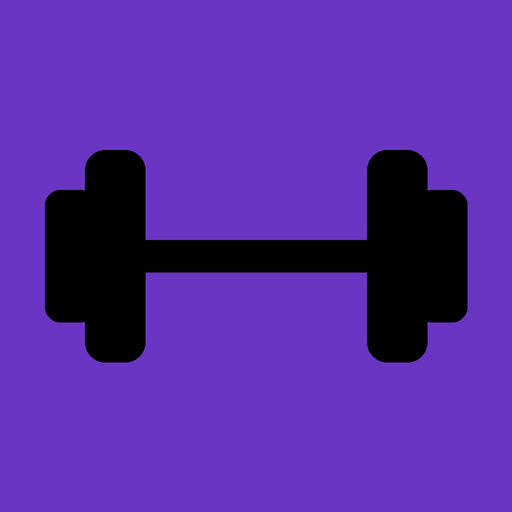
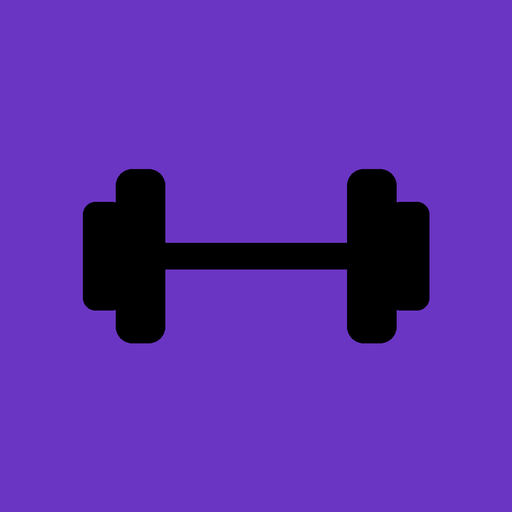
Add files via upload

Changed region(s): [[0.0625, 0.2812, 0.9375, 0.7188]]

diff --git a/index.html b/index.html
@@ -21,7 +21,7 @@ input:focus,select:focus,button:focus-visible{outline:2px solid var(--acc2);outl
 button{cursor:pointer}.pri{background:var(--acc);border-color:var(--acc);color:#fff;font-weight:600}
 .num{width:76px;text-align:center}
 .set{display:inline-block;background:var(--bg);border-radius:8px;padding:4px 9px;margin:6px 6px 0 0;font-weight:600}
-.set a{color:var(--mute);margin-left:4px;cursor:pointer}
+.set a{color:var(--mute);margin-left:8px;cursor:pointer;display:inline-flex;align-items:center;justify-content:center;min-width:28px;min-height:28px;border-radius:6px}.set a:focus-visible{outline:2px solid var(--acc2)}
 .chip{display:inline-flex;align-items:center;gap:6px;border:1px solid var(--line);border-radius:20px;padding:4px 10px;margin:6px 6px 0 0;font-size:14px}
 .chip a{color:var(--mute);cursor:pointer}
 .ico{flex:none;fill:none;stroke:var(--acc2);stroke-width:3;stroke-linecap:round;stroke-linejoin:round}.ico .e{stroke:var(--mute)}
@@ -41,8 +41,17 @@ const DAYS=["Lunes","Martes","Miércoles","Jueves","Viernes","Sábado","Domingo"
 const def=()=>({machines:["Press de banca","Press inclinado","Jalón al pecho","Remo en polea","Prensa de piernas","Extensión de cuádriceps","Curl femoral","Press militar","Curl de bíceps","Cinta de correr"],
 routine:[["Press de banca","Press inclinado"],["Jalón al pecho","Remo en polea"],[],["Prensa de piernas","Extensión de cuádriceps","Curl femoral"],["Press militar","Curl de bíceps"],["Cinta de correr"],[]],logs:[]});
 let S;try{S=JSON.parse(localStorage.getItem("gymlog"))}catch(e){}
-S=S||def();
-const save=()=>{try{localStorage.setItem("gymlog",JSON.stringify(S))}catch(e){}};
+const drafts={};
+function normalizeState(raw){
+ const base=def(), d=raw&&typeof raw==="object"?raw:{};
+ const machines=Array.isArray(d.machines)?d.machines.filter(x=>typeof x==="string"&&x.trim()).map(x=>x.trim()):base.machines;
+ const routine=Array.from({length:7},(_,i)=>Array.isArray(d.routine?.[i])?d.routine[i].filter(x=>typeof x==="string"&&machines.includes(x)):[]);
+ const logs=Array.isArray(d.logs)?d.logs.filter(l=>l&&typeof l==="object"&&typeof l.d==="string"&&/^\d{4}-\d{2}-\d{2}$/.test(l.d)&&typeof l.m==="string"&&l.m.trim()&&Number.isFinite(Number(l.kg))&&Number(l.kg)>=0&&Number.isInteger(Number(l.r))&&Number(l.r)>0).map(l=>({d:l.d,m:l.m.trim(),kg:Number(l.kg),r:Number(l.r)})):[];
+ // Include deleted-machine names in history; their records must remain reachable.
+ return {machines:[...new Set(machines)],routine,logs,lastBackup:Number.isFinite(d.lastBackup)?d.lastBackup:null};
+}
+S=normalizeState(S||def());
+const save=()=>{try{localStorage.setItem("gymlog",JSON.stringify(S));return true}catch(e){alert("No se han podido guardar los datos. Puede que el almacenamiento esté lleno o bloqueado. Exporta una copia si todavía puedes.");return false}};
 const esc=t=>String(t).replace(/[&<>"]/g,c=>({"&":"&amp;","<":"&lt;",">":"&gt;",'"':"&quot;"}[c]));
 const $=s=>document.querySelector(s);
 const key=()=>new Date().toLocaleDateString("sv");
@@ -117,8 +126,8 @@ function hoy(){
  (cur.length?cur.map((m,i)=>{
   const mine=S.logs.filter(l=>l.d===k&&l.m===m),p=[...S.logs].reverse().find(l=>l.m===m&&l.d!==k);
   return `<div class="card"><div class="row"><button class="ib" onclick="demo(cur[${i}])" aria-label="Ver cómo se hace">${ico(m,44)}</button><div class="grow"><h3>${esc(m)}</h3><span class="mute">${p?`Última: ${p.kg} kg × ${p.r}`:"Sin historial"}</span><div><a class="lk" onclick="demo(cur[${i}])">▶ Cómo se hace</a></div></div></div>
-  <div>${mine.map(l=>`<span class="set">${l.kg} kg × ${l.r}<a onclick="delSet(${S.logs.indexOf(l)})">✕</a></span>`).join("")}</div>
-  <div class="row" style="margin-top:8px"><input class="num" id="kg${i}" type="number" inputmode="decimal" placeholder="kg" value="${mine.length?mine[mine.length-1].kg:p?p.kg:""}"><input class="num" id="r${i}" type="number" inputmode="numeric" placeholder="reps" value="${mine.length?mine[mine.length-1].r:p?p.r:""}"><button class="pri grow" onclick="addSet(${i})">Añadir serie</button></div></div>`}).join("")
+  <div>${mine.map(l=>`<span class="set">${l.kg} kg × ${l.r}<button class="ib" style="min-width:28px;min-height:28px;justify-content:center" aria-label="Borrar serie de ${esc(m)}" onclick="delSet(${S.logs.indexOf(l)})">✕</button></span>`).join("")}</div>
+  <div class="row" style="margin-top:8px"><input class="num" id="kg${i}" type="text" inputmode="decimal" autocomplete="off" placeholder="kg" aria-label="Peso en kg" value="${esc(drafts["kg"+i]??(mine.length?mine[mine.length-1].kg:p?p.kg:""))}" oninput="drafts['kg${i}']=this.value"><input class="num" id="r${i}" type="text" inputmode="numeric" autocomplete="off" placeholder="reps" aria-label="Repeticiones" value="${esc(drafts["r"+i]??(mine.length?mine[mine.length-1].r:p?p.r:""))}" oninput="drafts['r${i}']=this.value"><button class="pri grow" onclick="addSet(${i})">Añadir serie</button></div></div>`}).join("")
   :`<div class="card mute">Día de descanso. Puedes asignar máquinas en Rutina o añadir una ahora.</div>`)+
  (rest.length?`<div class="card row"><select class="grow" id="ex">${opts(rest)}</select><button onclick="addEx()">Añadir a hoy</button></div>`:"");
 }
@@ -133,17 +142,18 @@ function maquinas(){
  S.machines.map((m,i)=>`<div class="card row sp"><span class="row"><button class="ib" onclick="demo(S.machines[${i}])" aria-label="Ver cómo se hace">${ico(m,32)}</button>${esc(m)}</span><span><button onclick="renM(${i})">Renombrar</button> <button onclick="delM(${i})">Borrar</button></span></div>`).join("");
 }
 function historial(){
- if(!hm||!S.machines.includes(hm))hm=S.machines[0]||"";
+ const names=[...new Set([...S.machines,...S.logs.map(l=>l.m)])];
+ if(!hm||!names.includes(hm))hm=names[0]||"";
  const L=S.logs.filter(l=>l.m===hm),days={};
  L.forEach(l=>(days[l.d]=days[l.d]||[]).push(l));
  const ds=Object.keys(days).sort().reverse(),best=L.reduce((a,l)=>Math.max(a,l.kg),0);
- return `<h1>Historial</h1><div class="card"><select id="hs" style="width:100%" onchange="hm=this.value;render()">${S.machines.map(m=>`<option ${m===hm?"selected":""}>${esc(m)}</option>`).join("")}</select>
+ return `<h1>Historial</h1><div class="card"><select id="hs" style="width:100%" onchange="hm=this.value;render()">${names.map(m=>`<option value="${esc(m)}" ${m===hm?"selected":""}>${esc(m)}${S.machines.includes(m)?"":" (borrada)"}</option>`).join("")}</select>
  ${L.length?`<p class="mute">Mejor peso: <b>${best} kg</b> · ${ds.length} sesiones</p>`:""}</div>`+
  (ds.length?ds.map(d=>`<div class="card"><div class="mute">${new Date(d+"T12:00").toLocaleDateString("es",{weekday:"long",day:"numeric",month:"short"})}</div>${days[d].map(l=>`<span class="set">${l.kg} kg × ${l.r}</span>`).join("")}</div>`).join(""):`<div class="card mute">Todavía no hay series de esta máquina.</div>`);
 }
 let pm="",met="kg";
 function progreso(){
- const ms=S.machines.filter(m=>S.logs.some(l=>l.m===m));
+ const ms=[...new Set(S.logs.map(l=>l.m))];
  if(!ms.length)return `<h1>Progreso</h1><div class="card mute">Registra series en Hoy y aquí verás cómo evolucionas en cada máquina.</div>`;
  if(!ms.includes(pm))pm=ms[0];
  const by={};S.logs.filter(l=>l.m===pm).forEach(l=>(by[l.d]=by[l.d]||[]).push(l));
@@ -172,10 +182,12 @@ function render(){
  $("#app").innerHTML={hoy,rutina,maquinas,progreso,historial}[v]();
  $("#nav").innerHTML=[["hoy","Hoy"],["rutina","Rutina"],["maquinas","Máquinas"],["progreso","Progreso"],["historial","Historial"]].map(([k,l])=>`<button class="${v===k?"on":""}" onclick="v='${k}';render();scrollTo(0,0)">${l}</button>`).join("");
 }
-function addSet(i){const kg=parseFloat($("#kg"+i).value),r=parseInt($("#r"+i).value);
- if(isNaN(kg)||isNaN(r)){alert("Indica peso y repeticiones.");return}
- S.logs.push({d:key(),m:cur[i],kg,r});save();render()}
-function delSet(i){S.logs.splice(i,1);save();render()}
+function parseDecimal(raw){const t=String(raw??"").trim().replace(/\s/g,"").replace(",",".");if(!t||!/^(?:\d+(?:\.\d+)?|\.\d+)$/.test(t))return NaN;return Number(t)}
+function addSet(i){const kg=parseDecimal($("#kg"+i).value),rText=$("#r"+i).value.trim(),r=Number(rText);
+ if(!Number.isFinite(kg)||kg<0){alert("El peso debe ser un número igual o mayor que 0. Puedes usar coma o punto decimal.");return}
+ if(!/^\d+$/.test(rText)||!Number.isSafeInteger(r)||r<=0){alert("Las repeticiones deben ser un número entero mayor que 0.");return}
+ S.logs.push({d:key(),m:cur[i],kg,r});delete drafts["kg"+i];delete drafts["r"+i];save();render()}
+function delSet(i){if(!Number.isInteger(i)||!S.logs[i])return;if(!confirm("¿Quieres borrar esta serie?"))return;S.logs.splice(i,1);save();render()}
 function addEx(){extra.push($("#ex").value);render()}
 function addR(i){const m=$("#rs"+i).value;S.routine[i].push(m);save();render()}
 function delR(i,j){S.routine[i].splice(j,1);save();render()}
@@ -193,14 +205,26 @@ function bk(){return `<div class="card"><h3>Copia de seguridad</h3><p class="mut
  <label class="row" style="margin-top:8px"><span class="mute">Restaurar archivo</span><input class="grow" type="file" accept=".json,application/json" onchange="imp(this)"></label></div>`}
 function mark(){S.lastBackup=Date.now();save();render()}
 async function exp(){const name="gymlog-"+key()+".json",txt=JSON.stringify(S);
- try{const f=new File([txt],name,{type:"application/json"});
-  if(navigator.canShare&&navigator.canShare({files:[f]})){await navigator.share({files:[f],title:"Copia GymLog"});mark();return}}catch(e){if(e&&e.name==="AbortError")return}
- const a=document.createElement("a");a.href=URL.createObjectURL(new Blob([txt],{type:"application/json"}));a.download=name;a.click();mark()}
+ try{
+  const cap=window.Capacitor,plugins=cap&&cap.Plugins,fs=plugins&&plugins.Filesystem,share=plugins&&plugins.Share;
+  if(cap&&cap.isNativePlatform&&cap.isNativePlatform()&&fs&&share){
+   const saved=await fs.writeFile({path:name,data:txt,directory:"DOCUMENTS",encoding:"utf8"});
+   await share.share({title:"Copia GymLog",text:"Copia de seguridad de GymLog",url:saved.uri||saved.path,dialogTitle:"Guardar copia de GymLog"});mark();return;
+  }
+  const f=new File([txt],name,{type:"application/json"});
+  if(navigator.canShare&&navigator.canShare({files:[f]})){await navigator.share({files:[f],title:"Copia GymLog"});mark();return}
+ }catch(e){if(e&&e.name==="AbortError")return;alert("No se pudo compartir la copia. Puedes probar «Copiar texto» o revisar los permisos de almacenamiento.");return}
+ try{const url=URL.createObjectURL(new Blob([txt],{type:"application/json"}));const a=document.createElement("a");a.href=url;a.download=name;a.click();setTimeout(()=>URL.revokeObjectURL(url),1500);mark()}catch(e){alert("No se pudo descargar la copia. Prueba «Copiar texto».")}}
 async function cpy(){try{await navigator.clipboard.writeText(JSON.stringify(S));mark();alert("Copiado. Pégalo en una nota o en un mensaje a ti mismo.")}catch(e){alert("No se pudo copiar. Usa Guardar copia.")}}
 function pas(){const t=prompt("Pega aquí el texto de tu copia");if(t)load(t)}
-function load(t){try{const d=JSON.parse(t);if(!d.machines||!d.routine||!d.logs)throw 0;if(!confirm("Esto reemplaza tus datos actuales. ¿Continuar?"))return;S=d;save();render();alert("Datos restaurados")}catch(e){alert("La copia no es válida")}}
+function load(t){try{const d=JSON.parse(t);if(!d||typeof d!=="object"||Array.isArray(d)||!Array.isArray(d.machines)||!Array.isArray(d.routine)||!Array.isArray(d.logs))throw new Error("formato");
+ if(d.machines.some(m=>typeof m!=="string"||!m.trim()||m.length>120)||d.routine.length>7||d.logs.length>100000)throw new Error("datos");
+ const next=normalizeState(d);if(!confirm("Esto reemplaza tus datos actuales. ¿Continuar?"))return;S=next;Object.keys(drafts).forEach(k=>delete drafts[k]);if(!save())return;render();alert("Copia restaurada correctamente")}catch(e){alert("La copia no es válida o está incompleta. No se han cambiado tus datos.")}}
 function imp(el){const f=el.files[0];if(!f)return;const r=new FileReader();r.onload=()=>load(r.result);r.readAsText(f);el.value=""}
 render();
+let renderedDay=key();
+function refreshDay(){const now=key();if(now!==renderedDay){renderedDay=now;extra=[];Object.keys(drafts).forEach(k=>delete drafts[k]);if(v==="hoy")render()}}
+setInterval(refreshDay,30000);document.addEventListener("visibilitychange",()=>{if(!document.hidden)refreshDay()});
 try{navigator.storage&&navigator.storage.persist&&navigator.storage.persist()}catch(e){}
 if("serviceWorker" in navigator&&location.protocol.startsWith("http"))addEventListener("load",()=>navigator.serviceWorker.register("sw.js").catch(()=>{}));
 </script></body></html>

diff --git a/sw.js b/sw.js
@@ -1,4 +1,12 @@
-const C="gymlog-v6",F=["./","index.html","manifest.webmanifest","icon-192.png","icon-512.png","apple-touch-icon.png"];
-self.addEventListener("install",e=>{e.waitUntil(caches.open(C).then(c=>c.addAll(F)));self.skipWaiting()});
-self.addEventListener("activate",e=>e.waitUntil(caches.keys().then(k=>Promise.all(k.filter(x=>x!==C).map(x=>caches.delete(x))))));
-self.addEventListener("fetch",e=>e.respondWith(fetch(e.request).then(r=>{const c=r.clone();caches.open(C).then(x=>x.put(e.request,c));return r}).catch(()=>caches.match(e.request))));
+const C="gymlog-v7", F=["./","index.html","manifest.webmanifest","icon-192.png","icon-512.png","apple-touch-icon.png"];
+self.addEventListener("install",e=>{e.waitUntil(caches.open(C).then(async c=>{for(const url of F){try{await c.add(url)}catch(err){/* keep installing if one optional asset is unavailable */}}}));self.skipWaiting()});
+self.addEventListener("activate",e=>e.waitUntil(caches.keys().then(k=>Promise.all(k.filter(x=>x.startsWith("gymlog-")&&x!==C).map(x=>caches.delete(x))))).then(()=>self.clients.claim()));
+self.addEventListener("fetch",e=>{
+ const req=e.request;if(req.method!=="GET"||new URL(req.url).origin!==self.location.origin)return;
+ // Cache-first for the app shell: open immediately in a gym with weak/no signal.
+ e.respondWith((async()=>{const cache=await caches.open(C);const cached=await cache.match(req);
+  const update=fetch(req).then(res=>{if(res&&res.ok){cache.put(req,res.clone())}return res}).catch(()=>null);
+  if(cached){e.waitUntil(update);return cached}
+  const fresh=await update;if(fresh)return fresh;return cache.match("./")||Response.error();
+ })());
+});

diff --git a/README.md b/README.md
@@ -9,8 +9,8 @@ App web para registrar tus entrenos en el gimnasio: máquinas, pesos y repeticio
 - **Rutina:** asigna máquinas a cada día de la semana.
 - **Máquinas:** añade, renombra y borra.
 - **Progreso:** gráficas por máquina de mejor peso, volumen y 1RM estimado.
-- **Historial:** mejor peso y sesiones por máquina.
-- **Copia de seguridad:** guarda una copia con un toque (menú compartir de iOS/Android), cópiala como texto o restáurala; la app te avisa si llevas más de 7 días sin copia.
+- **Historial:** mejor peso y sesiones por máquina, también de máquinas borradas (sus registros no se eliminan).
+- **Copia de seguridad:** exporta, copia como texto y restaura copias validadas. En web usa compartir/descarga según el navegador; en APK usa los plugins nativos indicados abajo. La app avisa si llevas más de 7 días sin copia.
 - **Tema:** negro con acento morado oscuro.
 
 ## Usarla en el móvil
@@ -19,18 +19,27 @@ App web para registrar tus entrenos en el gimnasio: máquinas, pesos y repeticio
 3. **iPhone (Safari):** Compartir → Añadir a pantalla de inicio.
    **Android (Chrome):** menú ⋮ → Instalar app.
 
-## Crear el APK de Android (Capacitor)
+## Crear o actualizar el APK de Android (Capacitor)
+Ejecuta estos comandos desde la carpeta del proyecto. Si ya tienes el proyecto Capacitor creado, no repitas `npx cap init` ni `npx cap add android`.
+
 ```bash
 npm init -y
-npm i @capacitor/core @capacitor/cli @capacitor/android
+npm i @capacitor/core @capacitor/cli @capacitor/android @capacitor/filesystem @capacitor/share
 npx cap init GymLog com.ariadnamoya.gymlog --web-dir=www
-mkdir www && cp index.html manifest.webmanifest sw.js *.png www/
+mkdir -p www
+cp index.html manifest.webmanifest sw.js *.png www/
 npx cap add android
-npx cap open android   # Build → Build APK(s)
+npx cap sync android
+npx cap open android
 ```
+
+**Cada vez que cambies `index.html`, `sw.js`, el manifiesto o los iconos:** copia los archivos actualizados a `www/` y ejecuta `npx cap sync android` antes de generar un APK nuevo. Si tu proyecto ya existe, instala los plugins con `npm i @capacitor/filesystem @capacitor/share` y ejecuta `npx cap sync android`.
+
+La copia nativa busca `Filesystem` y `Share` expuestos en `window.Capacitor.Plugins`. Si el proyecto usa una versión de Capacitor que no expone ese puente global, importa y registra ambos plugins en el punto de entrada JavaScript de tu proyecto; una página HTML sin empaquetar no puede importar directamente los módulos npm. En ese caso, prueba también la opción «Copiar texto» como alternativa.
+
 
 ## Iconos
 `icon-192.png`, `icon-512.png` y `apple-touch-icon.png` son reemplazables por los tuyos con el mismo nombre.
 
 ## Datos
-Todo se guarda en `localStorage`. Si borras los datos del navegador los pierdes: exporta copias de vez en cuando.
+Los datos se guardan en `localStorage` del navegador o WebView. La app intenta pedir almacenamiento persistente, pero el navegador puede no concederlo ni garantizar que los datos nunca se borren. Exporta copias periódicamente y guarda una fuera del dispositivo.
